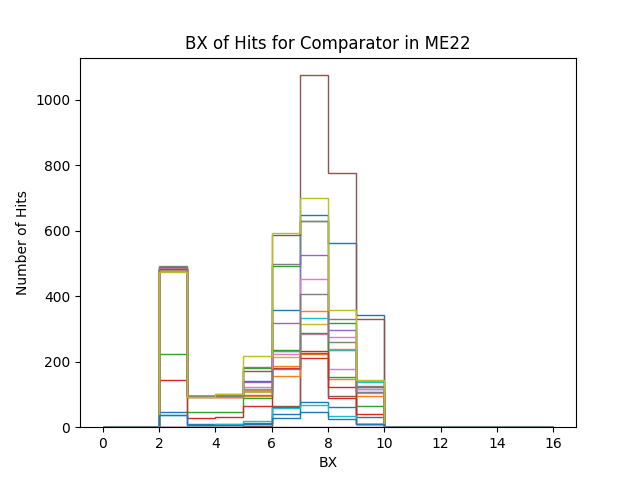
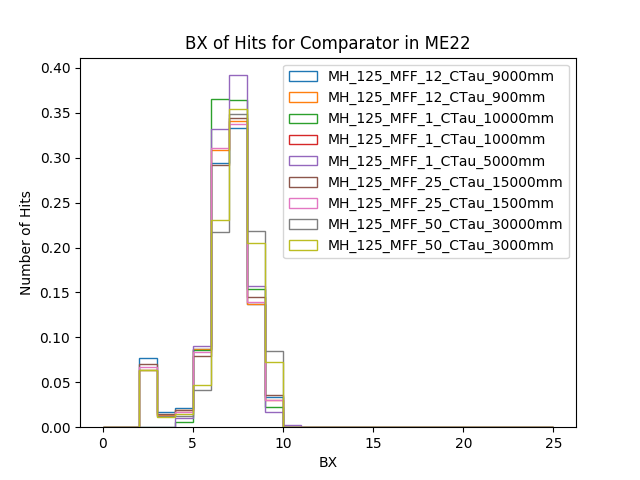
Timing now checks that an LLP is in acceptance

diff --git a/timing.py b/timing.py
@@ -6,7 +6,7 @@ from tqdm import tqdm
 
 in_dir = "/eos/uscms/store/user/nimenend/Eff_Rate/Final"
 samples = [
-"MH_1000_MFF_450_CTau_100000mm",
+#"MH_1000_MFF_450_CTau_100000mm",
 "MH_125_MFF_12_CTau_9000mm",
 "MH_125_MFF_12_CTau_900mm",
 "MH_125_MFF_1_CTau_10000mm",
@@ -16,26 +16,26 @@ samples = [
 "MH_125_MFF_25_CTau_1500mm",
 "MH_125_MFF_50_CTau_30000mm",
 "MH_125_MFF_50_CTau_3000mm",
-"MH_250_MFF_120_CTau_10000mm",
-#"MH_250_MFF_120_CTau_1000mm",
-"MH_250_MFF_120_CTau_500mm",
-"MH_250_MFF_60_CTau_10000mm",
-"MH_250_MFF_60_CTau_1000mm",
-"MH_250_MFF_60_CTau_500mm",
-"MH_350_MFF_160_CTau_10000mm",
-"MH_350_MFF_160_CTau_1000mm",
-"MH_350_MFF_160_CTau_500mm",
-"MH_350_MFF_80_CTau_10000mm",
-"MH_350_MFF_80_CTau_1000mm",
-"MH_350_MFF_80_CTau_500mm",
+#"MH_250_MFF_120_CTau_10000mm",
+##"MH_250_MFF_120_CTau_1000mm",
+#"MH_250_MFF_120_CTau_500mm",
+#"MH_250_MFF_60_CTau_10000mm",
+#"MH_250_MFF_60_CTau_1000mm",
+#"MH_250_MFF_60_CTau_500mm",
+#"MH_350_MFF_160_CTau_10000mm",
+#"MH_350_MFF_160_CTau_1000mm",
+#"MH_350_MFF_160_CTau_500mm",
+#"MH_350_MFF_80_CTau_10000mm",
+#"MH_350_MFF_80_CTau_1000mm",
+#"MH_350_MFF_80_CTau_500mm",
 ]
 
-vars_in = ["csc_comp_time","csc_comp_station","csc_comp_ring","csc_wire_time","csc_wire_station","csc_wire_ring"]
+vars_in = ["csc_comp_time","csc_comp_station","csc_comp_ring","csc_wire_time","csc_wire_station","csc_wire_ring","gen_llp_in_acceptance"]
 sectors = [11,12,13,21,22,31,32,41,42]
 #sectors = [41,42]
 nCham = {"ME11":72,"ME12":72,"ME13":72,"ME21":36,"ME22":72,"ME31":36,"ME32":72,"ME41":36,"ME42":72}
 
-times_comp, times_wire = {}, {}
+#times_comp, times_wire = {}, {}
 for me in tqdm(sectors):
 	times_comp, times_wire = {}, {}
 	for s in tqdm(samples,leave=False):
@@ -48,7 +48,12 @@ for me in tqdm(sectors):
 		sector_comp = data["csc_comp_station"]*10 + data["csc_comp_ring"]
 		sector_wire = data["csc_wire_station"]*10 + data["csc_wire_ring"]
 	
+		#acceptance = np.array(ak.sum(data["gen_llp_in_acceptance"], axis=-1)>=nllp1)
+		#print(data["gen_llp_in_acceptance"])
 		for ev in tqdm(range(len(data["csc_comp_time"])),leave=False):
+			#print(data["gen_llp_in_acceptance"][ev])
+			#print(np.count_nonzero(data["gen_llp_in_acceptance"][ev]))
+			if not (np.count_nonzero(data["gen_llp_in_acceptance"][ev])>=1): continue
 
 			times = (np.take(data["csc_comp_time"][ev],np.argwhere(sector_comp[ev]==me).flatten())).flatten().tolist()
 			times_comp[s]["ME%i"%(me)].extend(times)
@@ -57,20 +62,20 @@ for me in tqdm(sectors):
 	
 	for s in samples:
 		weights = np.ones(len(times_comp[s]["ME%i"%(me)]))*(1/nCham["ME%i"%(me)])
-		plt.hist(times_comp[s]["ME%i"%(me)],bins=16,range=[0,16],weights=weights,histtype='step',label=s)
+		plt.hist(times_comp[s]["ME%i"%(me)],bins=25,range=[0,25],weights=weights,density=True,histtype='step',label=s)
 	plt.xlabel("BX")
 	plt.ylabel("Number of Hits")
 	plt.title("BX of Hits for Comparator in ME%i"%(me))
-	#plt.legend(loc='best')
+	plt.legend(loc='best')
 	plt.savefig("Plots/BX_comp_ME%i.png"%(me))
 	plt.clf()
 
 	for s in samples:
 		weights = np.ones(len(times_wire[s]["ME%i"%(me)]))*(1/nCham["ME%i"%(me)])
-		plt.hist(times_wire[s]["ME%i"%(me)],bins=16,range=[0,16],weights=weights,histtype='step',label=s)
+		plt.hist(times_wire[s]["ME%i"%(me)],bins=25,range=[0,25],weights=weights,density=True,histtype='step',label=s)
 	plt.xlabel("BX")
 	plt.ylabel("Number of Hits")
 	plt.title("BX of Hits for Wire in ME%i"%(me))
-	#plt.legend(loc='best')
+	plt.legend(loc='best')
 	plt.savefig("Plots/BX_wire_ME%i.png"%(me))
 	plt.clf()
